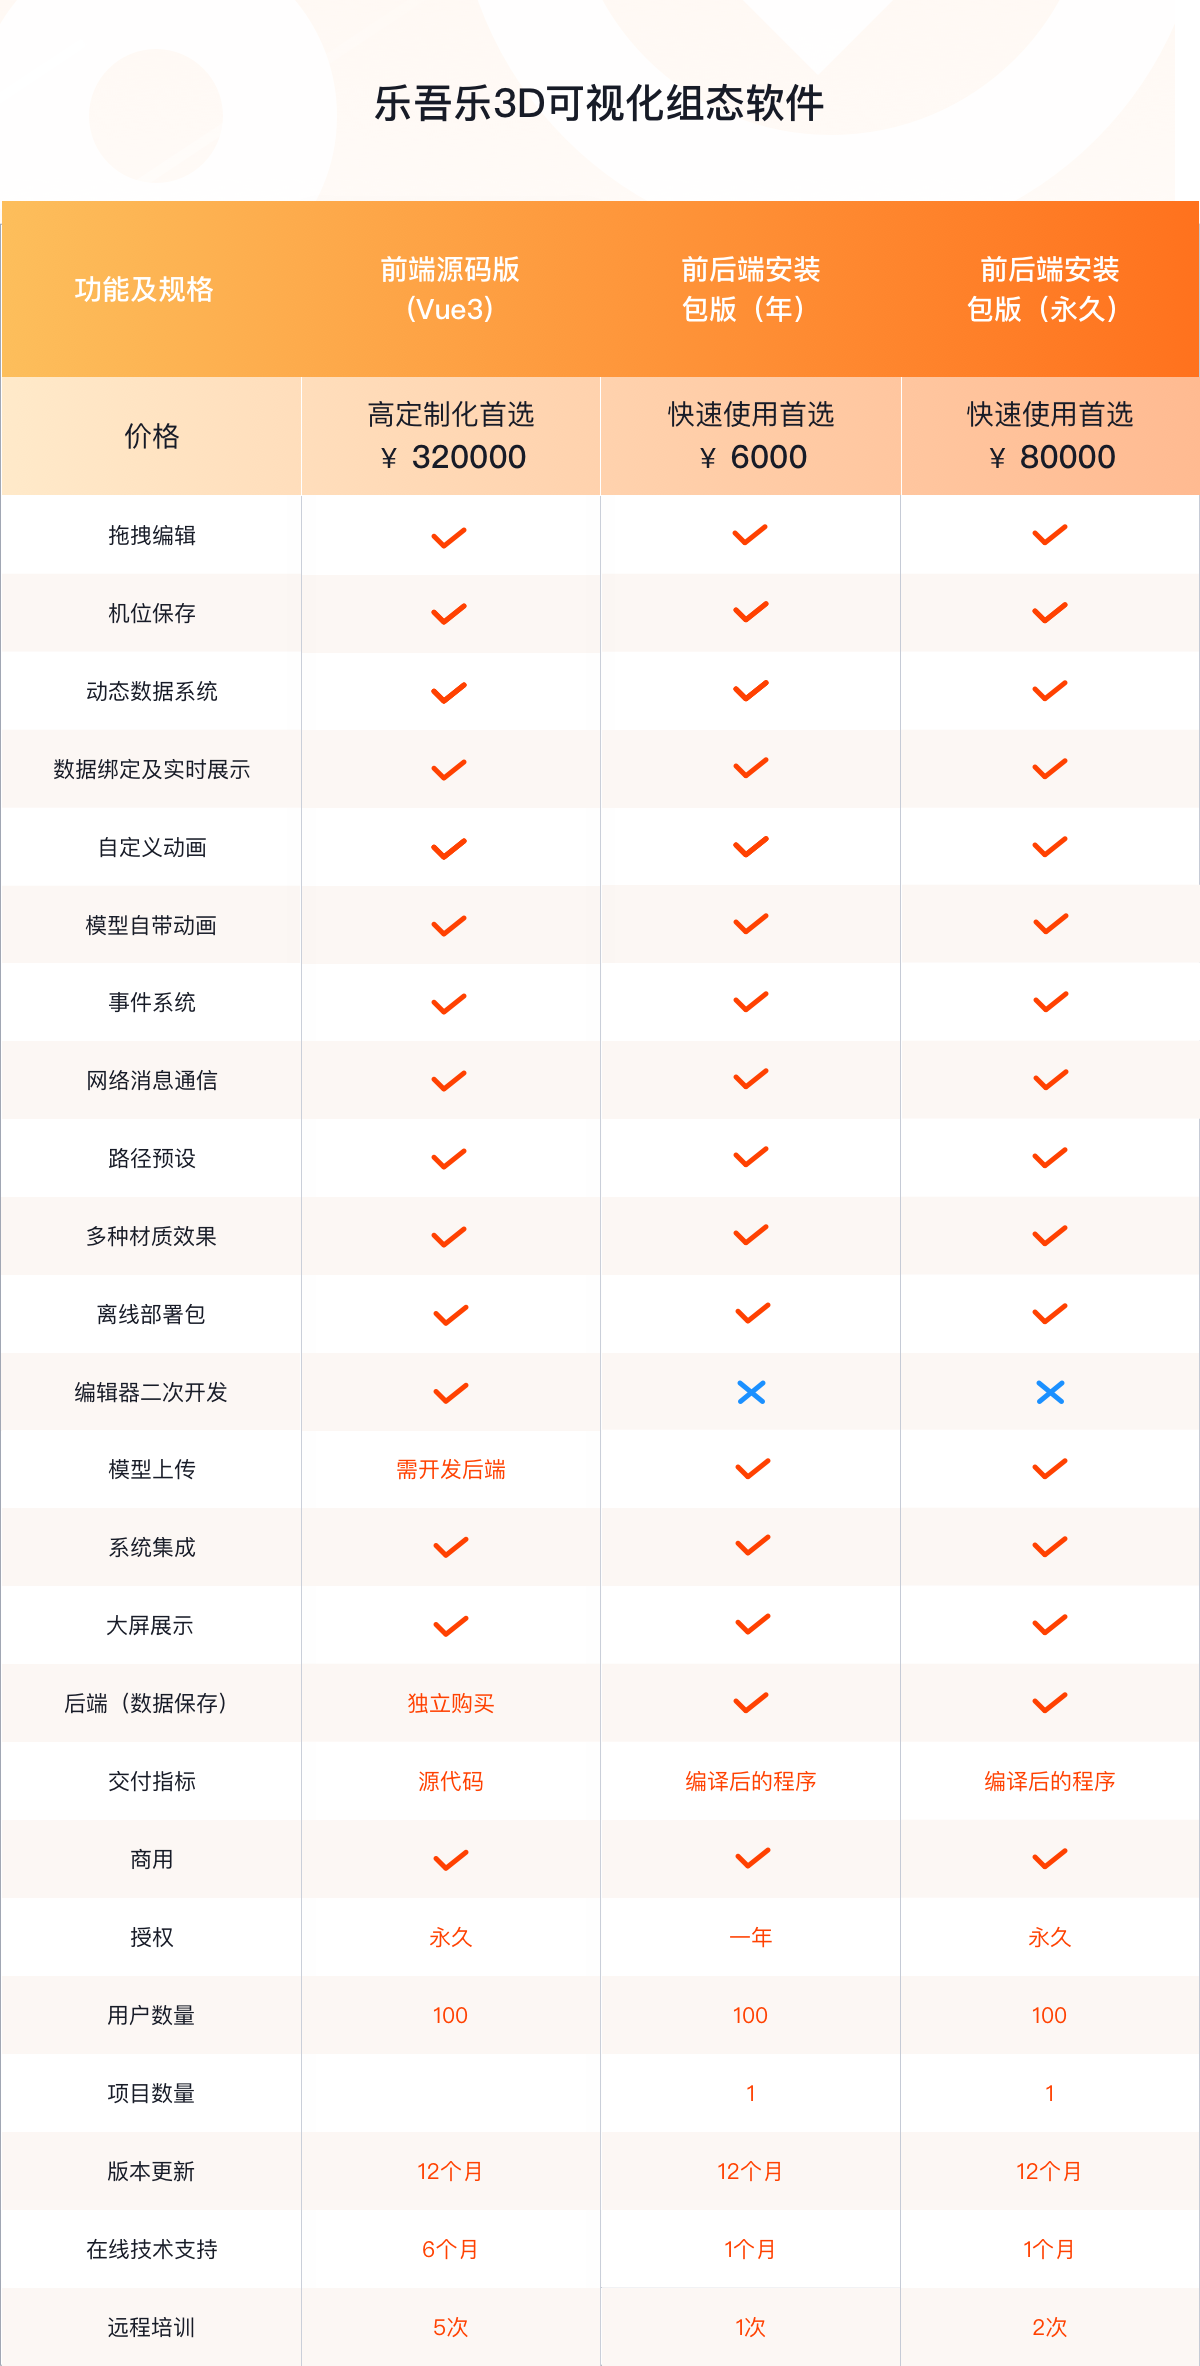
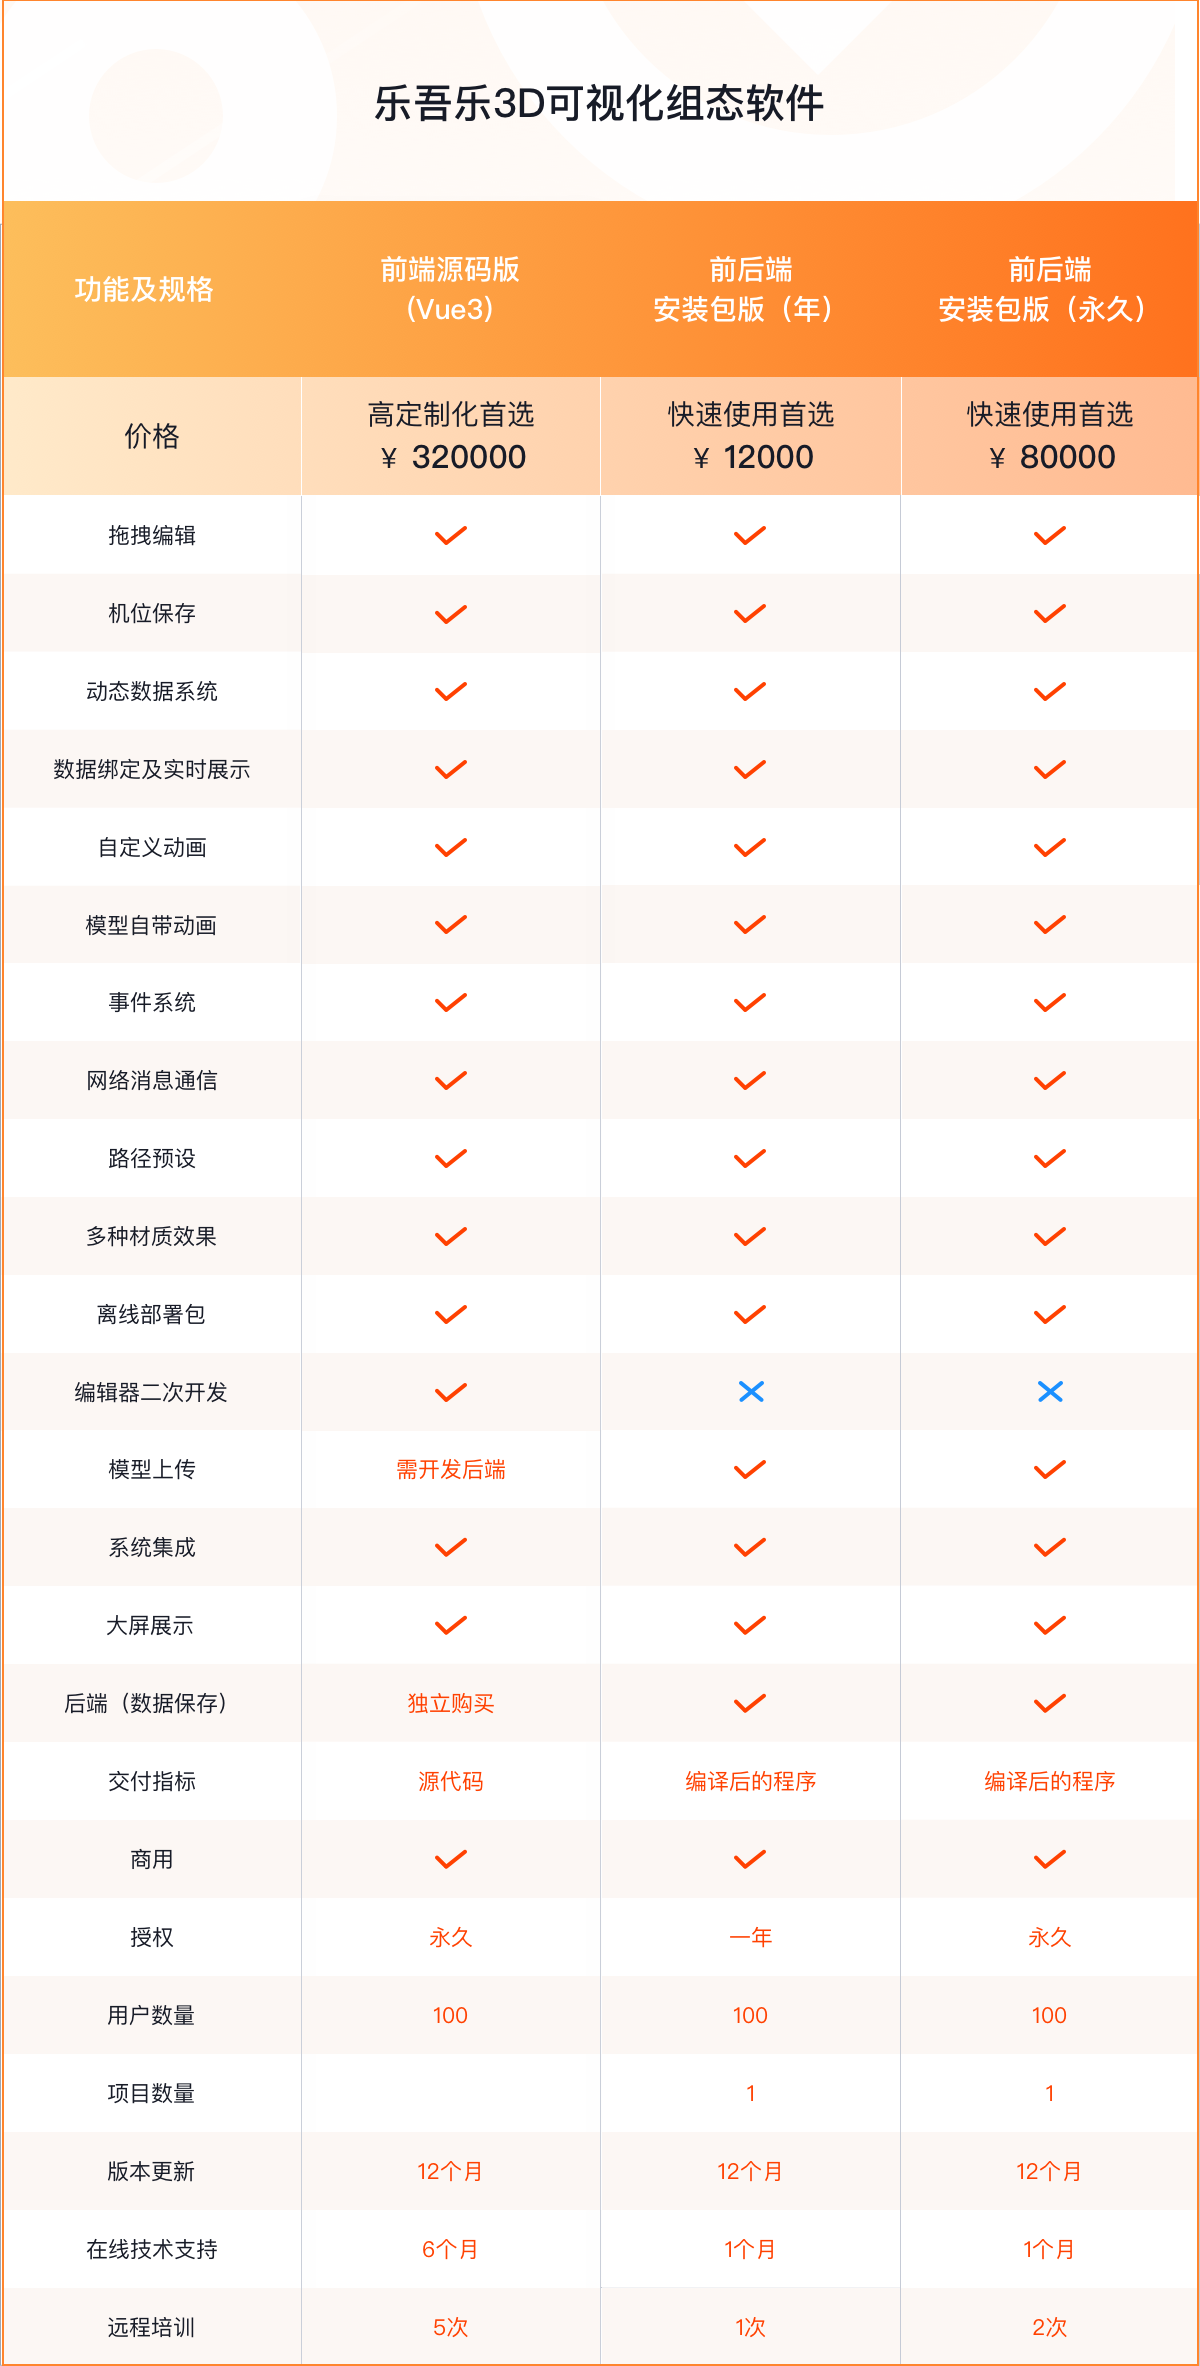
报价

diff --git a/docs/tutorial/commercial.md b/docs/tutorial/commercial.md
@@ -1,14 +1,12 @@
-# 关于企业版
-
-![乐吾乐2D可视化 编辑器 企业版与开源版的差别](/img/kaiyuan.png)
 
 ## 1 产品价格清单
-
-### 1.1 乐吾乐2D可视化组态软件 1.0版     
-
+ 
 2d可视化企业版demo：https://t.le5le.com/       
 
 ![乐吾乐2D可视化组态软件功能及价格](/img/2d.png)     
+
+
+![乐吾乐2D可视化图形库价格](/img/2dtxk.png)     
 
 
 ![乐吾乐3D可视化组态软件功能及价格](/img/3d.png)     
